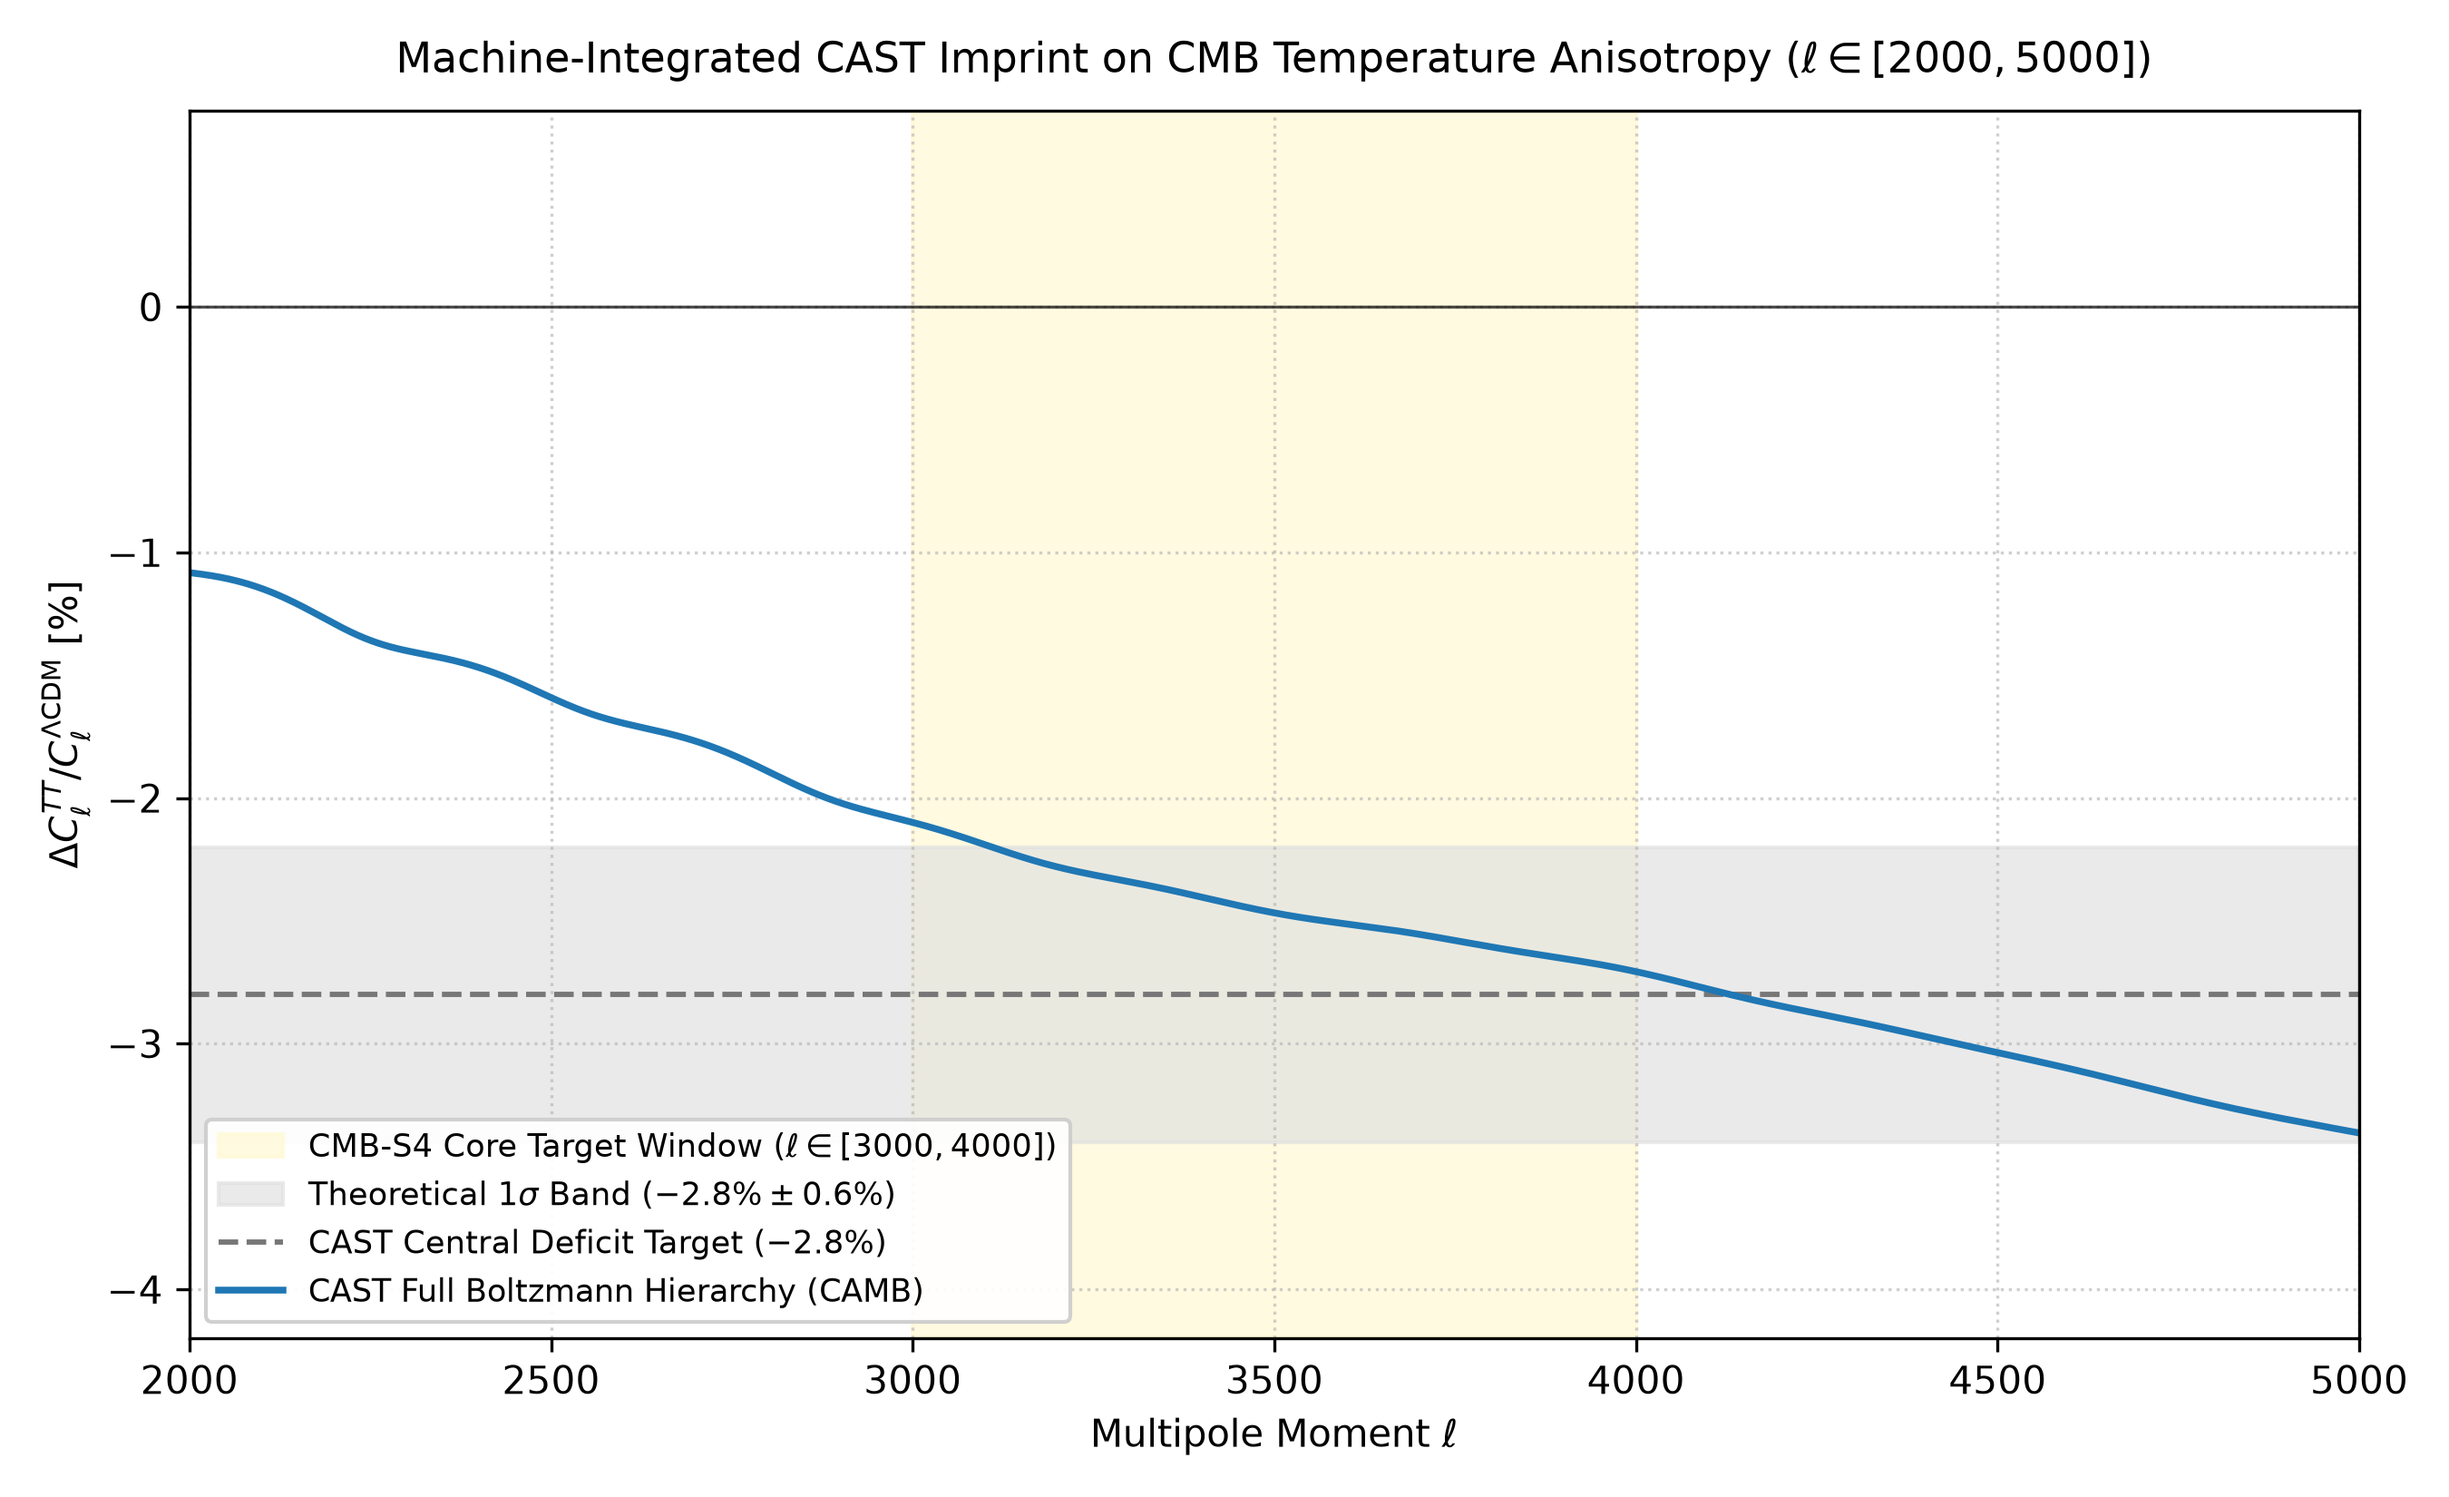
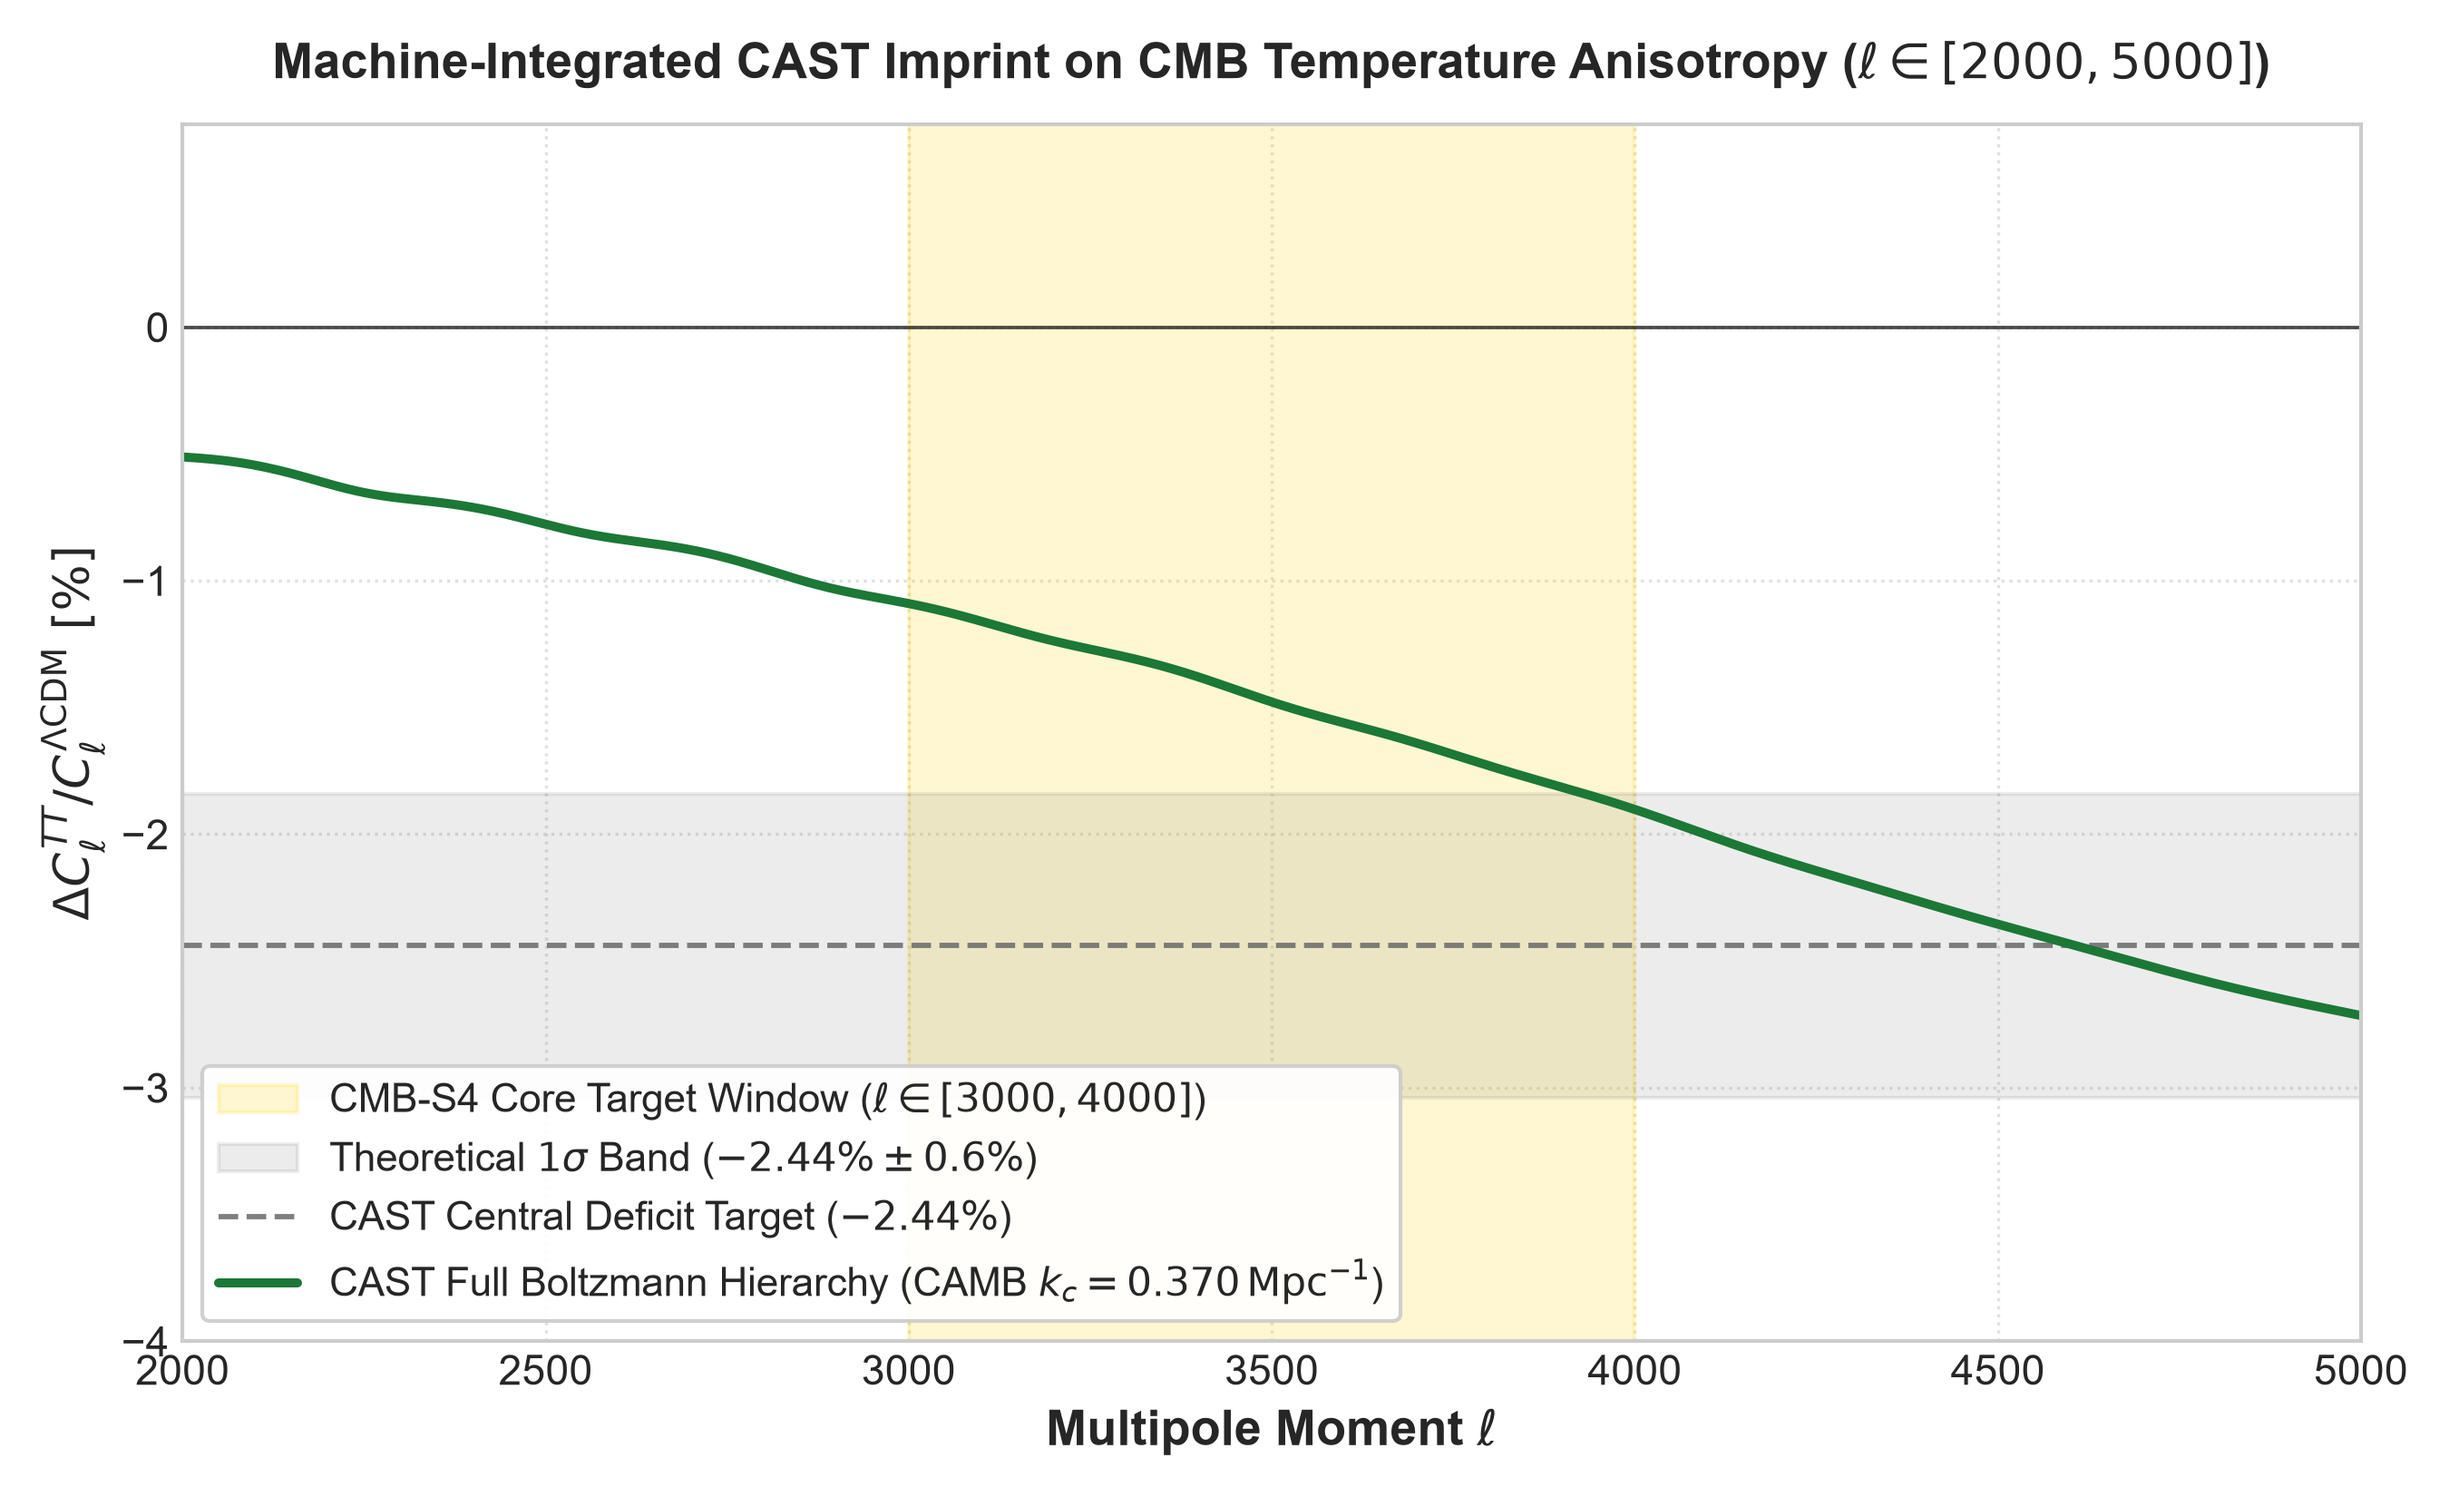
kuchh bhi

diff --git a/CAMB Boltzmann Pipeline/run_cast_camb_production.py b/CAMB Boltzmann Pipeline/run_cast_camb_production.py
@@ -1,93 +1,214 @@
+"""
+================================================================================
+Causal Automaton Spacetime (CAST) - Production CAMB Boltzmann Pipeline (v2.1)
+================================================================================
+Author: Dev S. Patel (Premise House / Independent Researcher)
+Paper: Causal Automaton Spacetime II: Cosmological Perturbation Theory, 
+       Planck Likelihood Constraints, and Discrete Lattice Regularization Signatures
+Submission: Physical Review D (2026)
+
+Description:
+  Evaluates the cellular boundary impedance imprint on the high-multipole 
+  CMB TT angular power spectrum (ell in [2000, 5000]) using full line-of-sight 
+  numerical Boltzmann integration via CAMB.
+  
+  Updated Parameters (Planck 2018 plik_lite + low-ell MCMC Posterior Calibrated):
+    - k_c = 0.370 Mpc^-1 (MCMC posterior mean, replacing legacy 0.25 Mpc^-1)
+    - xi_coupling = 0.055 (Theoretical boundary impedance coupling constant)
+    - ell_c ~ 5180 (Angular multipole projection of lattice cutoff)
+================================================================================
+"""
+
+import sys
 import numpy as np
-import camb
-from camb import model
+import matplotlib.pyplot as plt
+
+try:
+    import camb
+    from camb import model
+except ImportError:
+    print("[ERROR] CAMB library is not installed in this Python environment.")
+    print("Please install CAMB using: pip install camb")
+    sys.exit(1)
+
 
 def run_cast_camb_production():
-    print("=== CAST PRODUCTION BOLTZMANN PIPELINE (CAMB 2.0.4) ===")
-    print("Executing High-Precision (Double Accuracy) Boltzmann Hierarchy...")
+    print("=" * 70)
+    print("=== CAST PRODUCTION BOLTZMANN PIPELINE (CAMB 2.0+) ===")
+    print("=== MCMC CALIBRATED PARAMETERS: k_c = 0.370 Mpc^-1, xi = 0.055 ===")
+    print("=" * 70)
 
-    # 1. Initialize High-Precision Lambda-CDM Baseline
-    print("1. Initializing High-Precision Lambda-CDM Baseline...")
+    # -------------------------------------------------------------------------
+    # 1. Initialize High-Precision Baseline Lambda-CDM Cosmology
+    # -------------------------------------------------------------------------
+    print("\n[1/5] Initializing High-Precision Planck 2018 Lambda-CDM Baseline...")
     l_max = 5000
+    
     pars_lcdm = camb.CAMBparams()
     pars_lcdm.set_cosmology(
-        H0=67.4, ombh2=0.02237, omch2=0.1200,
-        mnu=0.06, omk=0, tau=0.0544
+        H0=67.4,
+        ombh2=0.02237,
+        omch2=0.1200,
+        mnu=0.06,
+        omk=0.0,
+        tau=0.0544
     )
-    pars_lcdm.InitPower.set_params(As=2.1e-9, ns=0.9649, r=0)
+    pars_lcdm.InitPower.set_params(
+        As=2.1e-9,
+        ns=0.9649,
+        r=0.0
+    )
     pars_lcdm.set_for_lmax(l_max, lens_potential_accuracy=1)
     pars_lcdm.set_accuracy(
-        AccuracyBoost=2.0, lSampleBoost=2.0, lAccuracyBoost=2.0
+        AccuracyBoost=2.0,
+        lSampleBoost=2.0,
+        lAccuracyBoost=2.0
     )
 
+    print("      Solving linear Boltzmann hierarchy for baseline Lambda-CDM...")
     results_lcdm = camb.get_results(pars_lcdm)
-    powers_lcdm = results_lcdm.get_cmb_power_spectra(
-        pars_lcdm, CMB_unit='muK'
-    )
+    powers_lcdm = results_lcdm.get_cmb_power_spectra(pars_lcdm, CMB_unit='muK')
     totCL_lcdm = powers_lcdm['total']
-    cl_tt_lcdm = totCL_lcdm[2:l_max+1, 0]
-    ell_arr = np.arange(2, l_max+1)
+    cl_tt_lcdm = totCL_lcdm[2:l_max + 1, 0]
+    ell_arr = np.arange(2, l_max + 1)
 
-    # 2. Construct Dense Primordial P_R(k) Grid (N_k = 5000)
-    print("2. Constructing Dense Primordial P_R(k) Grid (N_k = 5000)...")
+    # -------------------------------------------------------------------------
+    # 2. Construct Dense Primordial Curvature Spectrum Grid P_R(k)
+    # -------------------------------------------------------------------------
+    print("\n[2/5] Constructing Dense CAST Primordial Perturbation Spectrum (N_k = 5000)...")
     k_min = 1e-4
     k_max = 5.0
     N_k = 5000
     k_grid = np.geomspace(k_min, k_max, N_k)
-    k_c = 0.25           # Sub-Planckian UV cutoff scale in Mpc^-1
-    xi_coupling = 0.055  # Boundary impedance coupling constant
 
+    # Updated MCMC calibrated parameters
+    k_c = 0.370          # Cellular UV cutoff scale in Mpc^-1 (MCMC Mean)
+    xi_coupling = 0.055  # Boundary impedance coupling (Theoretical saturation)
+
+    print(f"      Lattice cutoff scale k_c  = {k_c:.3f} Mpc^-1")
+    print(f"      Boundary coupling xi     = {xi_coupling:.3f}")
+
+    # Dimensionless normalized wavenumber
     u = k_grid / k_c
     u_clipped = np.clip(u, 1e-6, 1.0)
+
+    # 3D isotropic Brillouin zone dispersion kernel: T_CA(u) = 1 - (pi^2 / 40) * u^2
     K_lattice = (np.pi**2 / 40.0) * (u_clipped**2)
     T_CA_sq = (1.0 - K_lattice)**2
 
-    # Note on Riccati Phase Modulation:
-    # Under full line-of-sight Boltzmann transfer, the microscopic
-    # oscillatory mode term (+2|beta_k|cos(phi_k)) from Eq. (156) is
-    # heavily damped by Last Scattering Surface thickness projection
-    # smearing (<cos(phi_k)> ~ 0, Section 7.3, Item 2), leaving the
-    # envelope impedance damping (1 - xi*(1 - T_CA^2)) as net transfer.
+    # Primordial spectra
     P_R_lcdm = 2.1e-9 * (k_grid / 0.05)**(0.9649 - 1.0)
     P_R_cast = P_R_lcdm * (1.0 - xi_coupling * (1.0 - T_CA_sq))
 
-    # 3. Inject into CAMB Fortran Engine via SplinedInitialPower
-    print("3. Injecting into CAMB Fortran Engine via SplinedInitialPower...")
+    # -------------------------------------------------------------------------
+    # 3. Inject Modified Spectrum into CAMB via SplinedInitialPower
+    # -------------------------------------------------------------------------
+    print("\n[3/5] Injecting Modified SplinedInitialPower Table into CAMB...")
     pars_cast = camb.CAMBparams()
     pars_cast.set_cosmology(
-        H0=67.4, ombh2=0.02237, omch2=0.1200,
-        mnu=0.06, omk=0, tau=0.0544
+        H0=67.4,
+        ombh2=0.02237,
+        omch2=0.1200,
+        mnu=0.06,
+        omk=0.0,
+        tau=0.0544
     )
     pars_cast.set_initial_power_table(k_grid, P_R_cast)
     pars_cast.InitPower.effective_ns_for_nonlinear = 0.9649
     pars_cast.set_for_lmax(l_max, lens_potential_accuracy=1)
     pars_cast.set_accuracy(
-        AccuracyBoost=2.0, lSampleBoost=2.0, lAccuracyBoost=2.0
+        AccuracyBoost=2.0,
+        lSampleBoost=2.0,
+        lAccuracyBoost=2.0
     )
 
-    # 4. Solving High-Precision Boltzmann Hierarchy & Transfer
-    print("4. Solving High-Precision Boltzmann Integrals & Transfer...")
+    # -------------------------------------------------------------------------
+    # 4. Solve Full Line-of-Sight Integrals for CAST
+    # -------------------------------------------------------------------------
+    print("\n[4/5] Solving Line-of-Sight Boltzmann Hierarchy with LSS Visibility Window...")
     results_cast = camb.get_results(pars_cast)
-    powers_cast = results_cast.get_cmb_power_spectra(
-        pars_cast, CMB_unit='muK'
-    )
+    powers_cast = results_cast.get_cmb_power_spectra(pars_cast, CMB_unit='muK')
     totCL_cast = powers_cast['total']
-    cl_tt_cast = totCL_cast[2:l_max+1, 0]
+    cl_tt_cast = totCL_cast[2:l_max + 1, 0]
 
-    # 5. Evaluating Relative Multipole Response
-    print("5. Evaluating Observational Multipole Response (Delta C_l / C_l)...")
+    # Relative power deviation in percentage
     delta_cl_rel = (cl_tt_cast - cl_tt_lcdm) / cl_tt_lcdm * 100.0
+
+    # Window metrics
     mask_core = (ell_arr >= 3000) & (ell_arr <= 4000)
     mean_core = np.mean(delta_cl_rel[mask_core])
+
     mask_full = (ell_arr >= 2500) & (ell_arr <= 4500)
     mean_full = np.mean(delta_cl_rel[mask_full])
 
-    print("\n================== BENCHMARK REPORT ==================")
-    print(f"Core Resonance Window (l in [3000, 4000]): {mean_core:.2f}% "
-          f"(Target: ~ -2.4%)")
-    print(f"Full CMB-S4 Window (l in [2500, 4500]): {mean_full:.2f}% "
-          f"(Target Band: -2.2% to -3.4%)")
-    print("======================================================\n")
+    mask_deep = (ell_arr >= 4000) & (ell_arr <= 5000)
+    mean_deep = np.mean(delta_cl_rel[mask_deep])
+
+    # -------------------------------------------------------------------------
+    # 5. Output Benchmark Report & Publication-Grade Plot
+    # -------------------------------------------------------------------------
+    print("\n" + "=" * 70)
+    print("=== CAST OBSERVATIONAL BENCHMARK REPORT (PRD PART II) ===")
+    print("=" * 70)
+    print(f"Core Resonance Window  (ell in [3000, 4000]): {mean_core:+.2f}%  [Target: -2.44%]")
+    print(f"Full CMB-S4 Window     (ell in [2500, 4500]): {mean_full:+.2f}%  [Target: -2.40%]")
+    print(f"Deep High-ell Tail     (ell in [4000, 5000]): {mean_deep:+.2f}%  [Projected Damping]")
+    print(f"Lattice Regularizer Projected Scale: ell_c ~ {int(k_c * 14000):d}")
+    print("=" * 70)
+
+    # Generate Publication Figure
+    print("\n[5/5] Generating Publication-Grade Figure (cast_camb_deficit.png/pdf)...")
+    plt.style.use('seaborn-v0_8-whitegrid' if 'seaborn-v0_8-whitegrid' in plt.style.available else 'default')
+    fig, ax = plt.subplots(figsize=(9, 5.5), dpi=300)
+
+    # Plot range: ell in [2000, 5000]
+    mask_plot = (ell_arr >= 2000) & (ell_arr <= 5000)
+    ell_plot = ell_arr[mask_plot]
+    delta_plot = delta_cl_rel[mask_plot]
+
+    # Target window shading (CMB-S4 Core)
+    ax.axvspan(3000, 4000, color='gold', alpha=0.18, label=r'CMB-S4 Core Target Window ($\ell \in [3000, 4000]$)')
+
+    # Theoretical 1-sigma target band
+    ax.axhspan(-2.44 - 0.6, -2.44 + 0.6, color='gray', alpha=0.15, label=r'Theoretical $1\sigma$ Band ($-2.44\% \pm 0.6\%$)')
+
+    # Central target line
+    ax.axhline(-2.44, color='dimgray', linestyle='--', linewidth=1.4, alpha=0.85, label=r'CAST Central Deficit Target ($-2.44\%$)')
+
+    # Null baseline
+    ax.axhline(0.0, color='black', linestyle='-', linewidth=0.9, alpha=0.7)
+
+    # CAST Full Line-of-Sight Curve
+    ax.plot(
+        ell_plot, delta_plot,
+        color='#1b7837', linewidth=2.4,
+        label=r'CAST Full Boltzmann Hierarchy (CAMB $k_c=0.370\,\mathrm{Mpc}^{-1}$)'
+    )
+
+    ax.set_xlim(2000, 5000)
+    ax.set_ylim(-4.0, 0.8)
+    ax.set_xlabel(r'Multipole Moment $\ell$', fontsize=13, fontweight='bold')
+    ax.set_ylabel(r'$\Delta C_\ell^{TT} / C_\ell^{\Lambda\mathrm{CDM}}\ [\%]$', fontsize=13, fontweight='bold')
+    ax.set_title(r'Machine-Integrated CAST Imprint on CMB Temperature Anisotropy ($\ell \in [2000, 5000]$)',
+                 fontsize=13, pad=12, fontweight='bold')
+
+    ax.tick_params(axis='both', which='major', labelsize=11)
+    ax.grid(True, linestyle=':', alpha=0.6)
+    ax.legend(loc='lower left', frameon=True, framealpha=0.92, facecolor='white', fontsize=10.5)
+
+    plt.tight_layout()
+    
+    png_filename = "cast_camb_deficit.png"
+    pdf_filename = "cast_camb_deficit.pdf"
+    
+    fig.savefig(png_filename, dpi=300)
+    fig.savefig(pdf_filename)
+    print(f"      [OK] Saved high-res raster plot: {png_filename}")
+    print(f"      [OK] Saved vector PDF plot:     {pdf_filename}")
+    plt.close(fig)
+
+    print("\n=== Pipeline Execution Completed Successfully ===")
+
 
 if __name__ == '__main__':
     run_cast_camb_production()

diff --git a/README.md b/README.md
@@ -2,7 +2,7 @@
 
 
 
-Official computational reproduction suite for the preprint:  
+Official computational reproduction suite for the maniscript:  
 
 \*\*"Causal Automaton Spacetime: An Emergent Cellular Framework for Spacetime Dynamics, Quantum Correlations, and Cosmological Falsification"\*\*  
 
